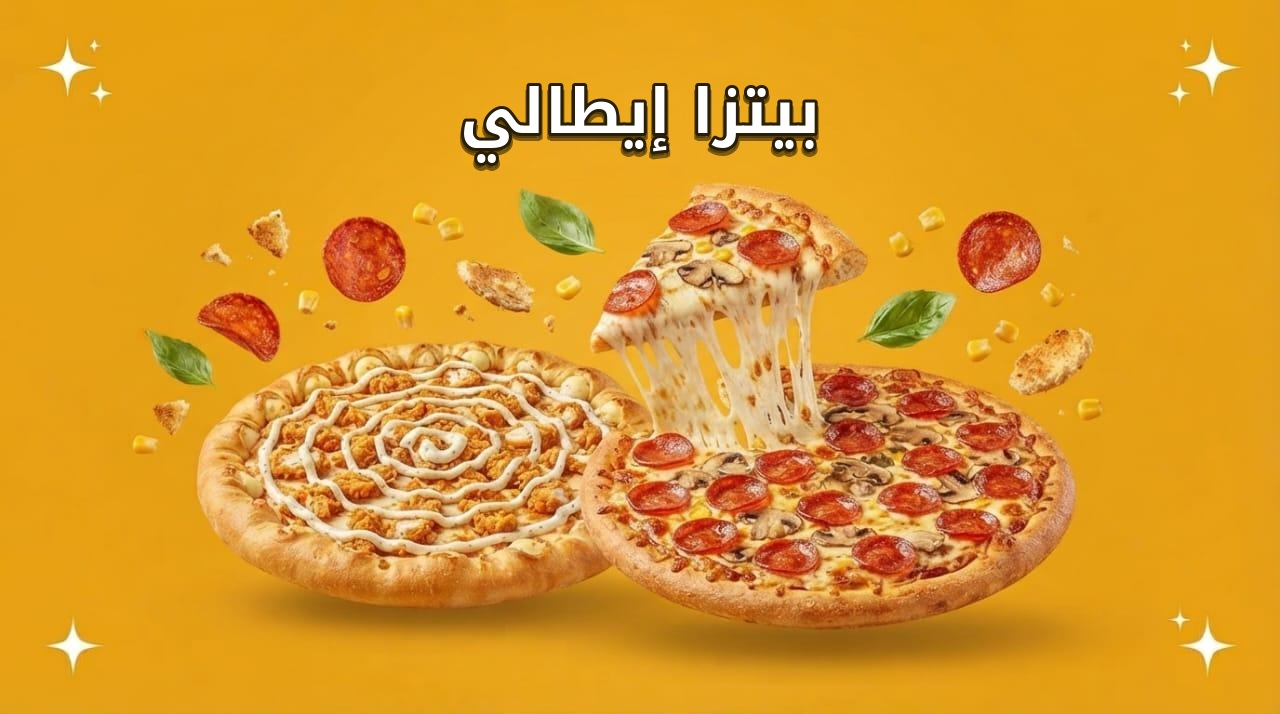
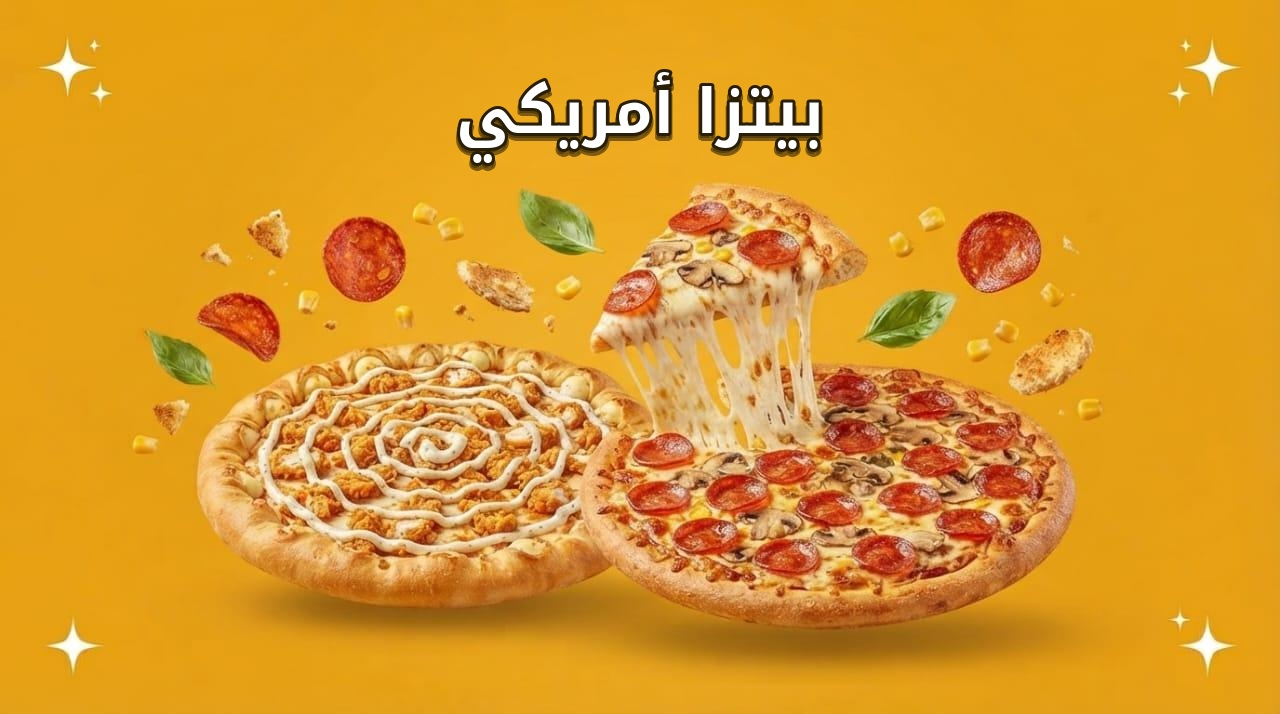
fix(assets): update pizza category cover image text to American Pizza

Changed region(s): [[0.3438, 0.0924, 0.6562, 0.2465]]

diff --git a/scripts/add_titles_to_covers.py b/scripts/add_titles_to_covers.py
@@ -10,7 +10,7 @@ CATEGORIES = [
     ("burgers.jpeg", "برجر لحم"),
     ("crispy_chicken.jpeg", "ساندوتشات كرانشي"),
     ("crepes.jpeg", "كريب زينجر"),
-    ("pizza.jpeg", "بيتزا إيطالي"),
+    ("pizza.jpeg", "بيتزا أمريكي"),
     ("pasta.jpeg", "طواجن باستا"),
     ("rolls.jpeg", "وتش رول"),
     ("hawawshi.jpeg", "حواوشي إيطالي"),
